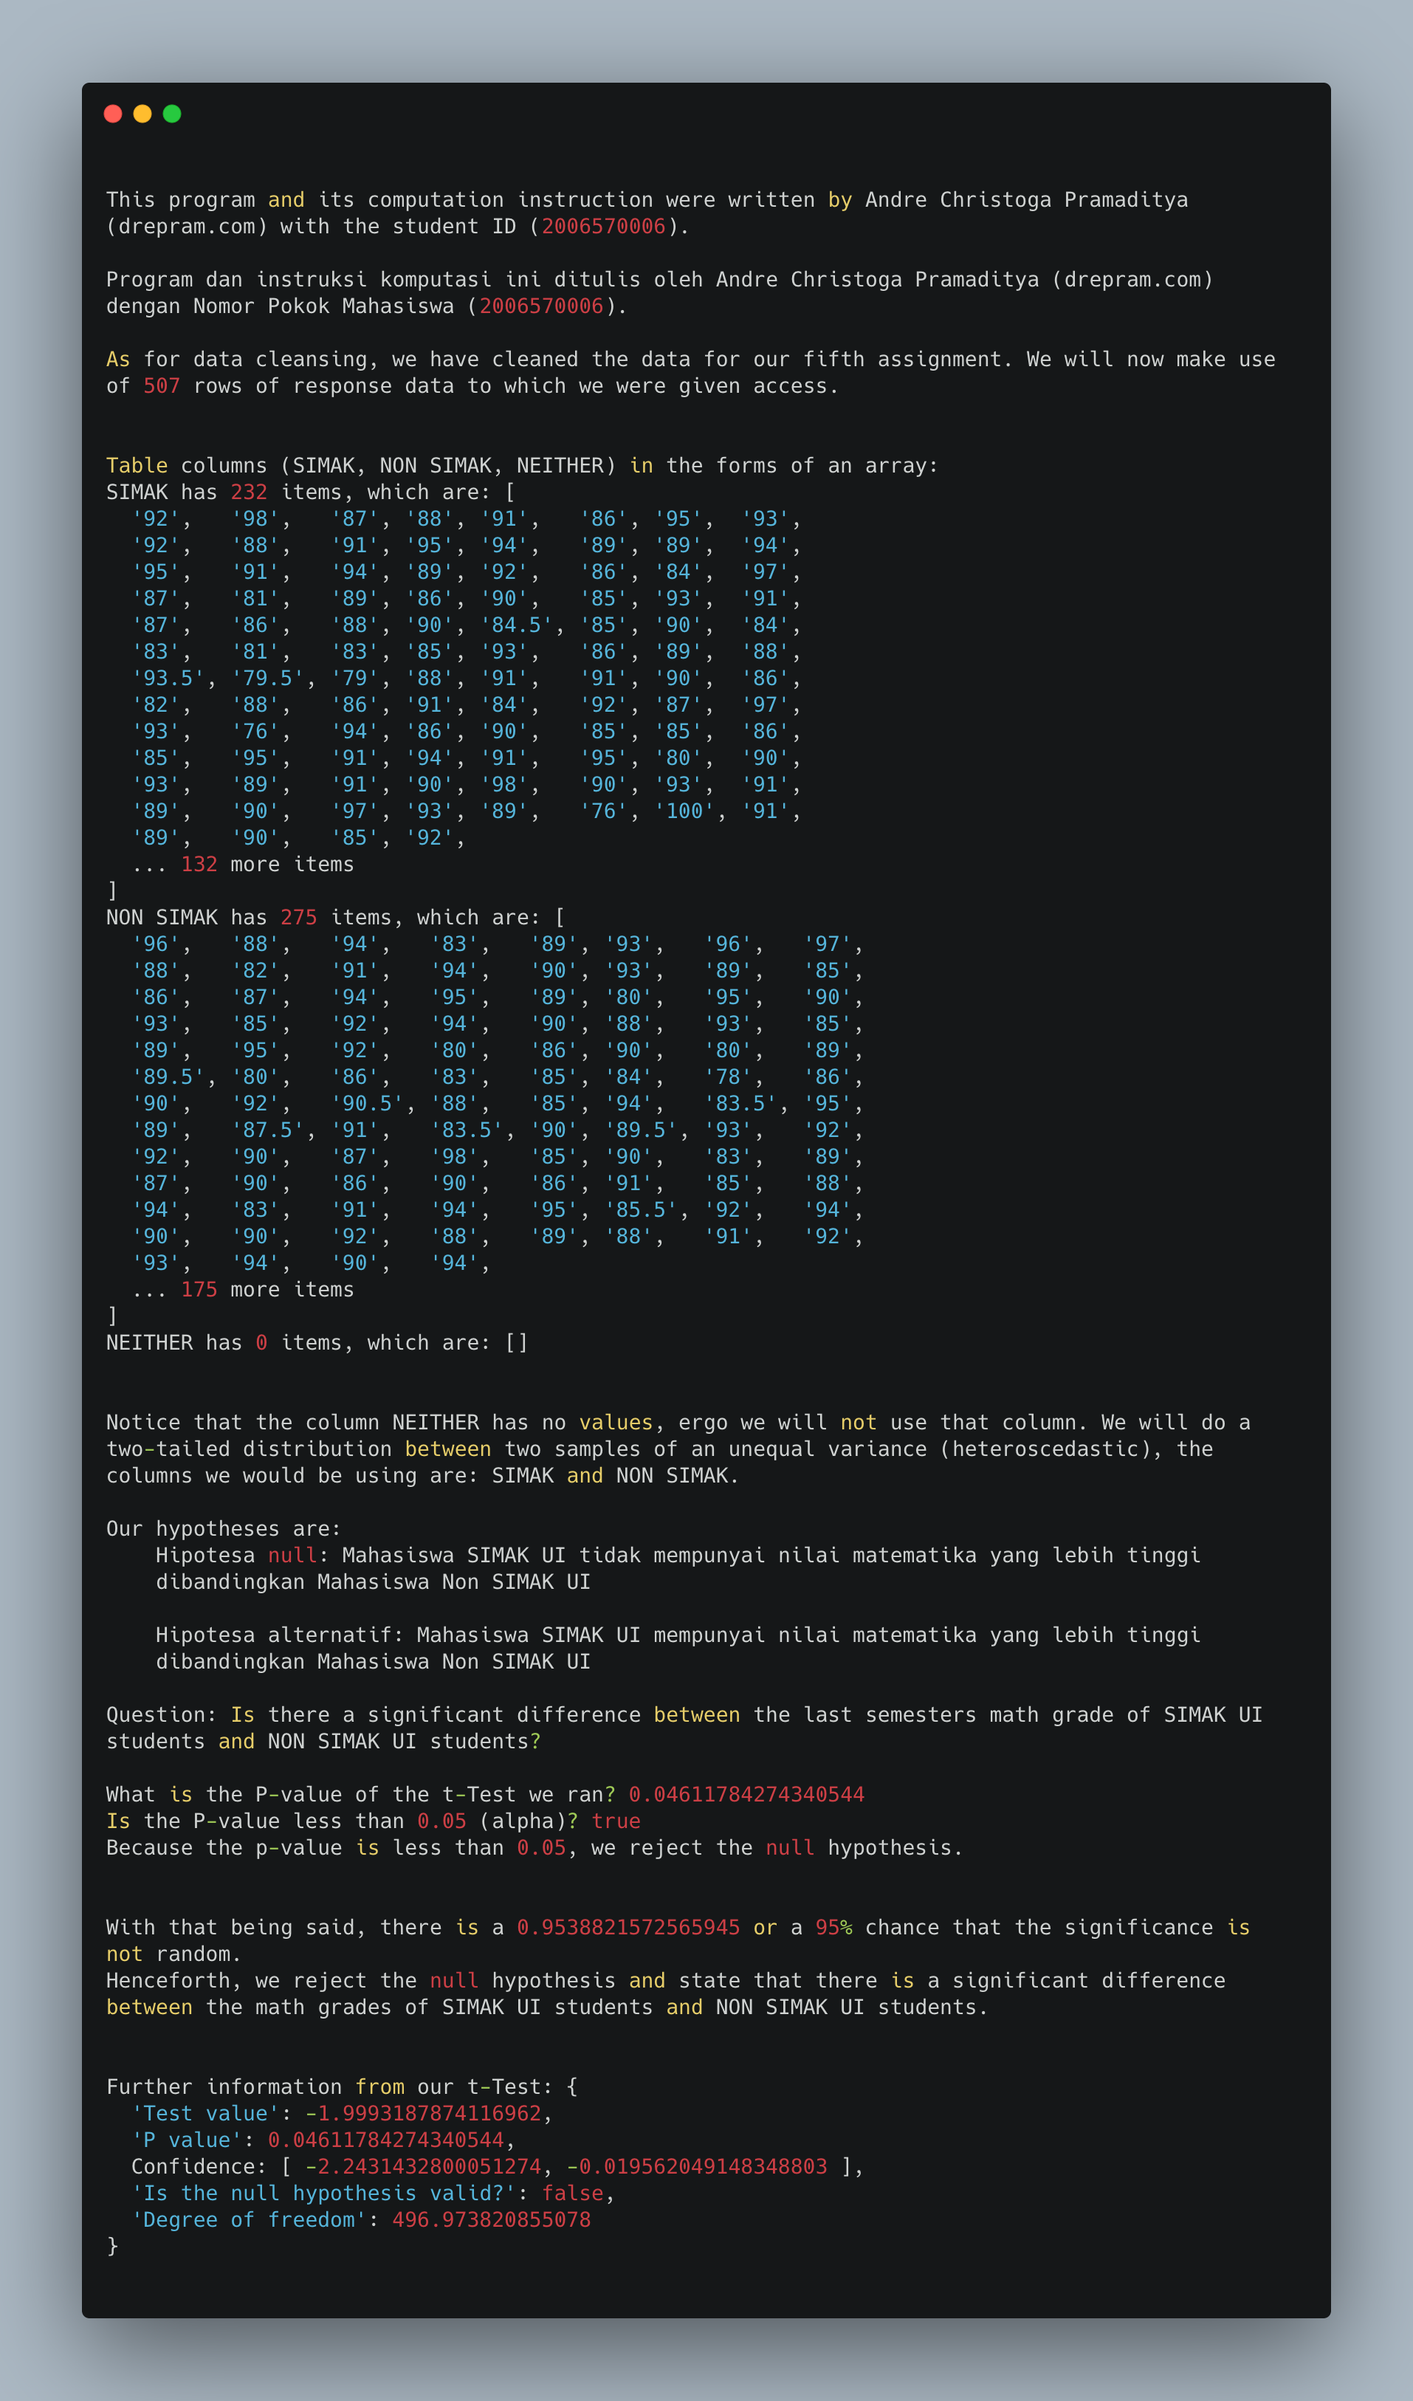
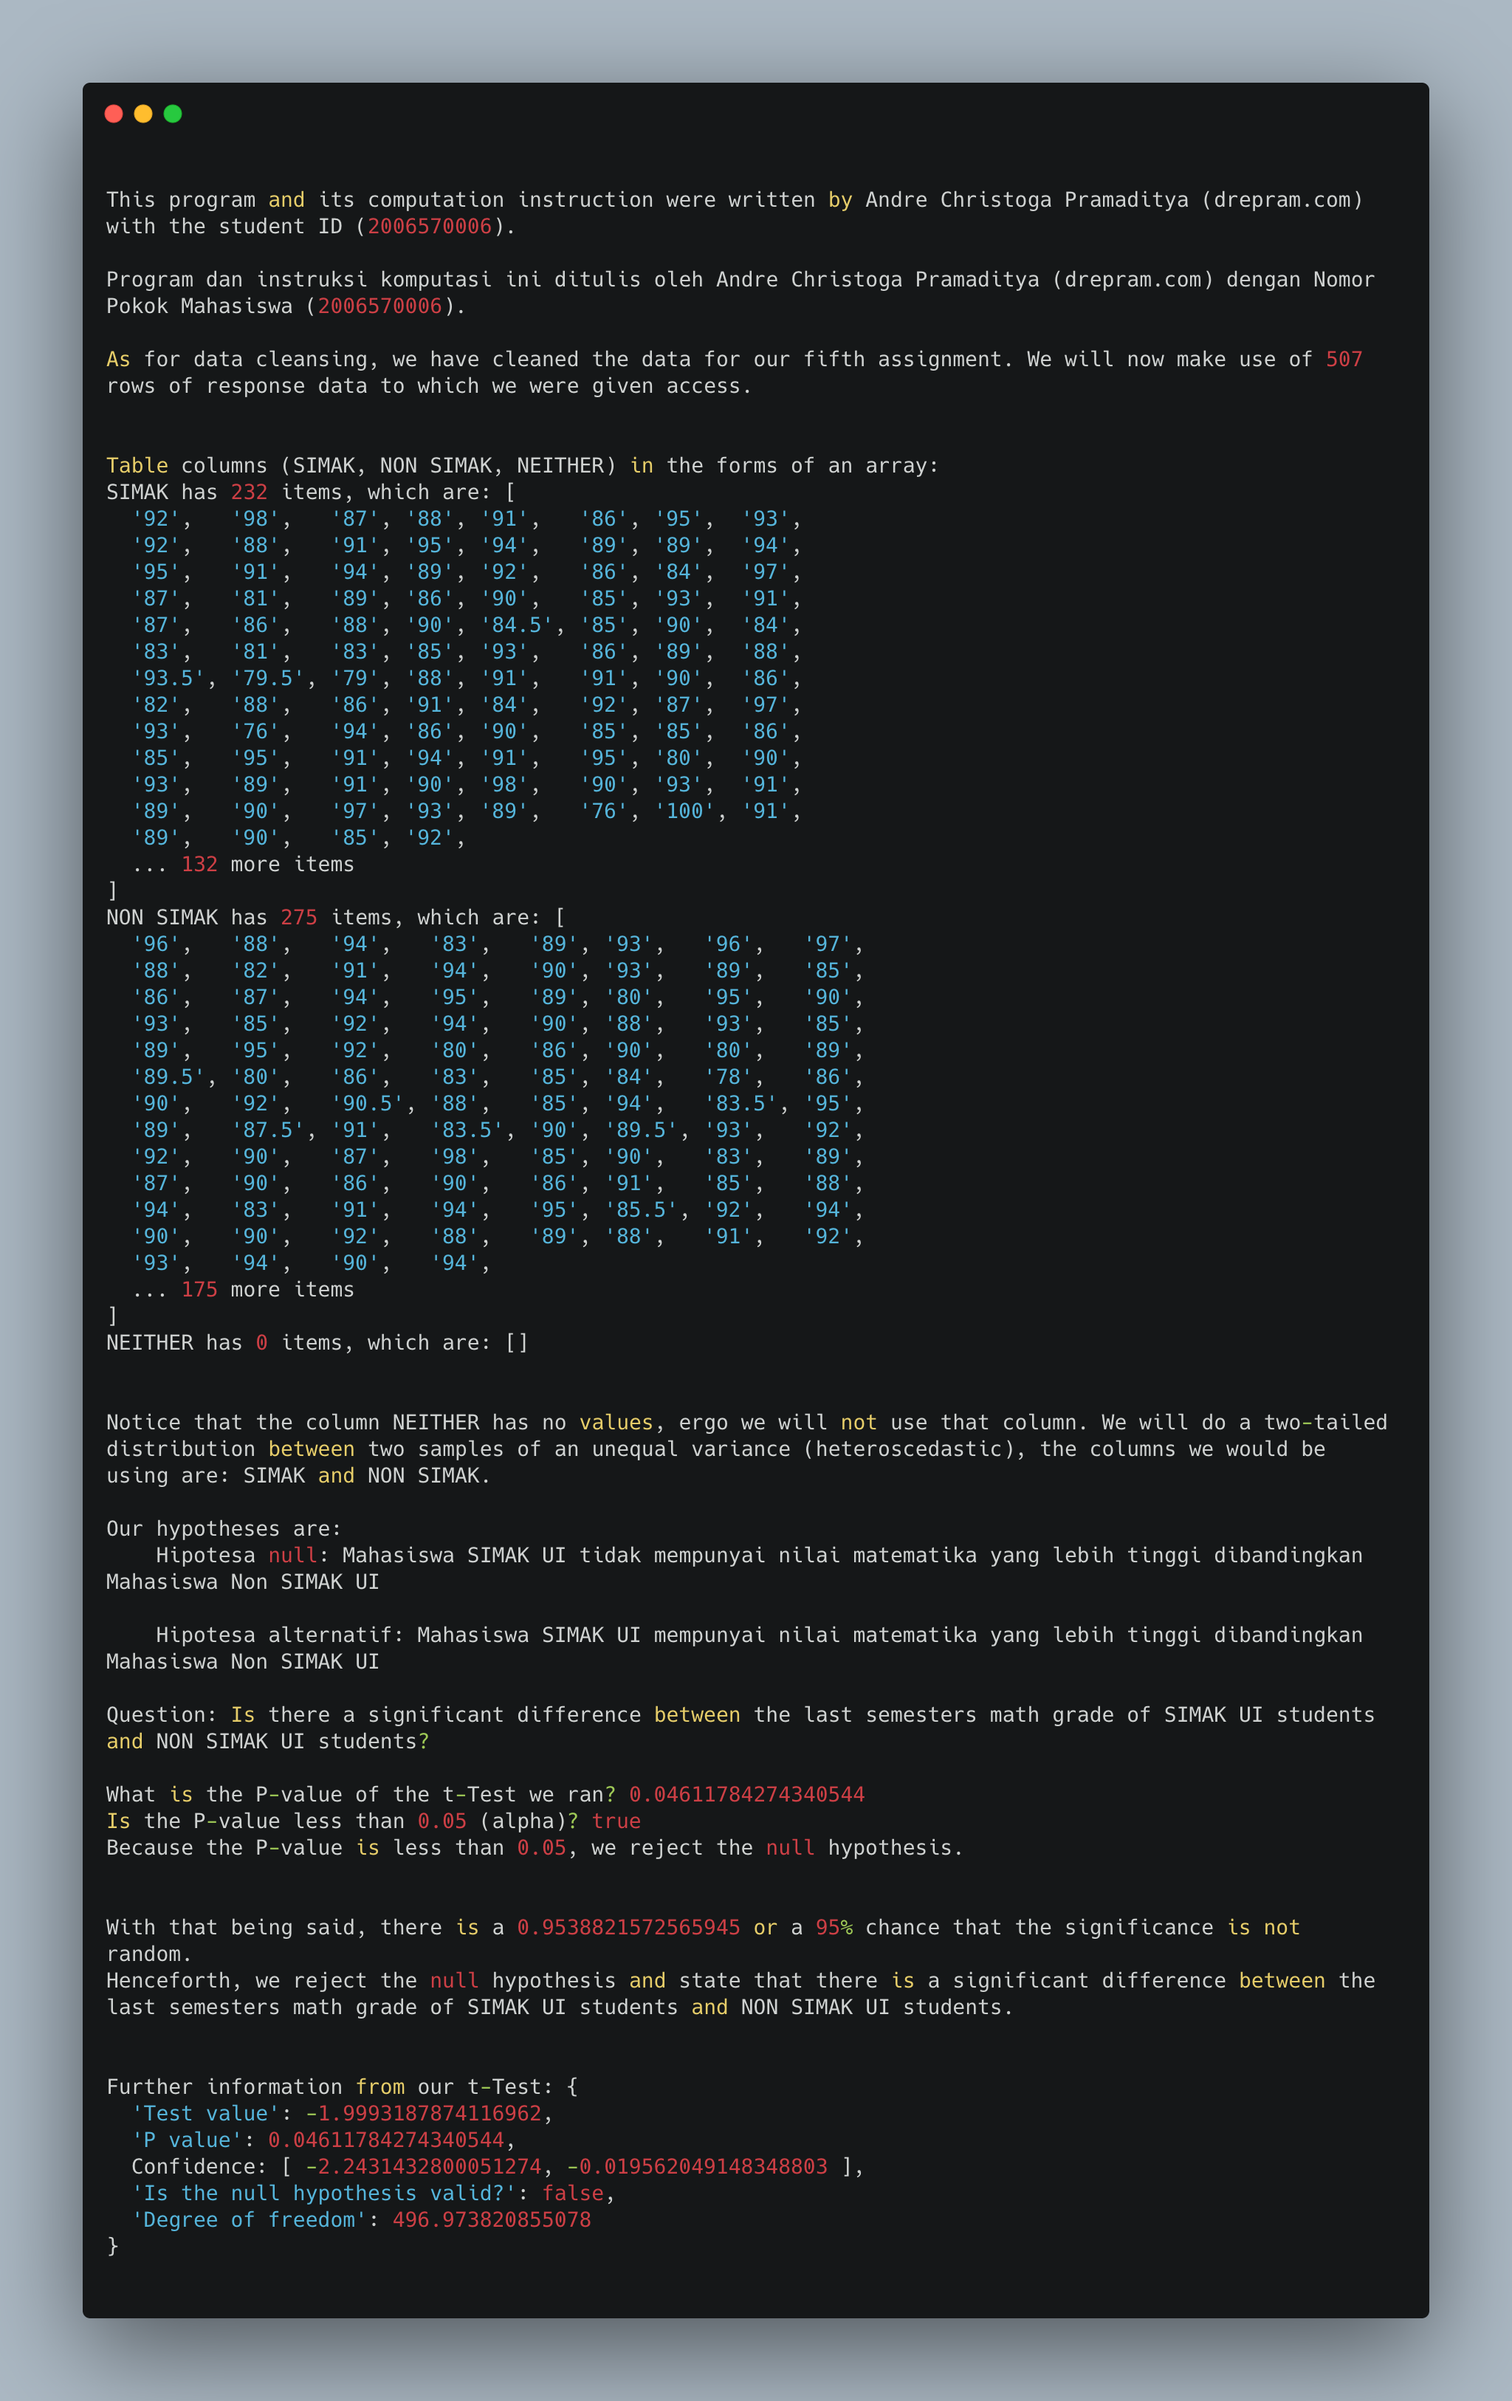
Minor change on output content

diff --git a/sem1/psd/assignment9/index.js b/sem1/psd/assignment9/index.js
@@ -52,12 +52,12 @@ const lessThanAlpha = TTest.pValue() < options.alpha
 
 console.log('What is the P-value of the t-Test we ran?', pValueOfTTest)
 console.log('Is the P-value less than 0.05 (alpha)?', lessThanAlpha)
-console.log('Because the p-value is less than 0.05, we reject the null hypothesis.')
+console.log('Because the P-value is less than 0.05, we reject the null hypothesis.')
 
 console.log('\n')
 
 console.log(`With that being said, there is a ${(1 - pValueOfTTest)} or a ${Math.floor((1 - pValueOfTTest) * 100)}% chance that the significance is not random.`)
-console.log('Henceforth, we reject the null hypothesis and state that there is a significant difference between the math grades of SIMAK UI students and NON SIMAK UI students.')
+console.log('Henceforth, we reject the null hypothesis and state that there is a significant difference between the last semester\'s math grade of SIMAK UI students and NON SIMAK UI students.')
 
 console.log('\n')
 
